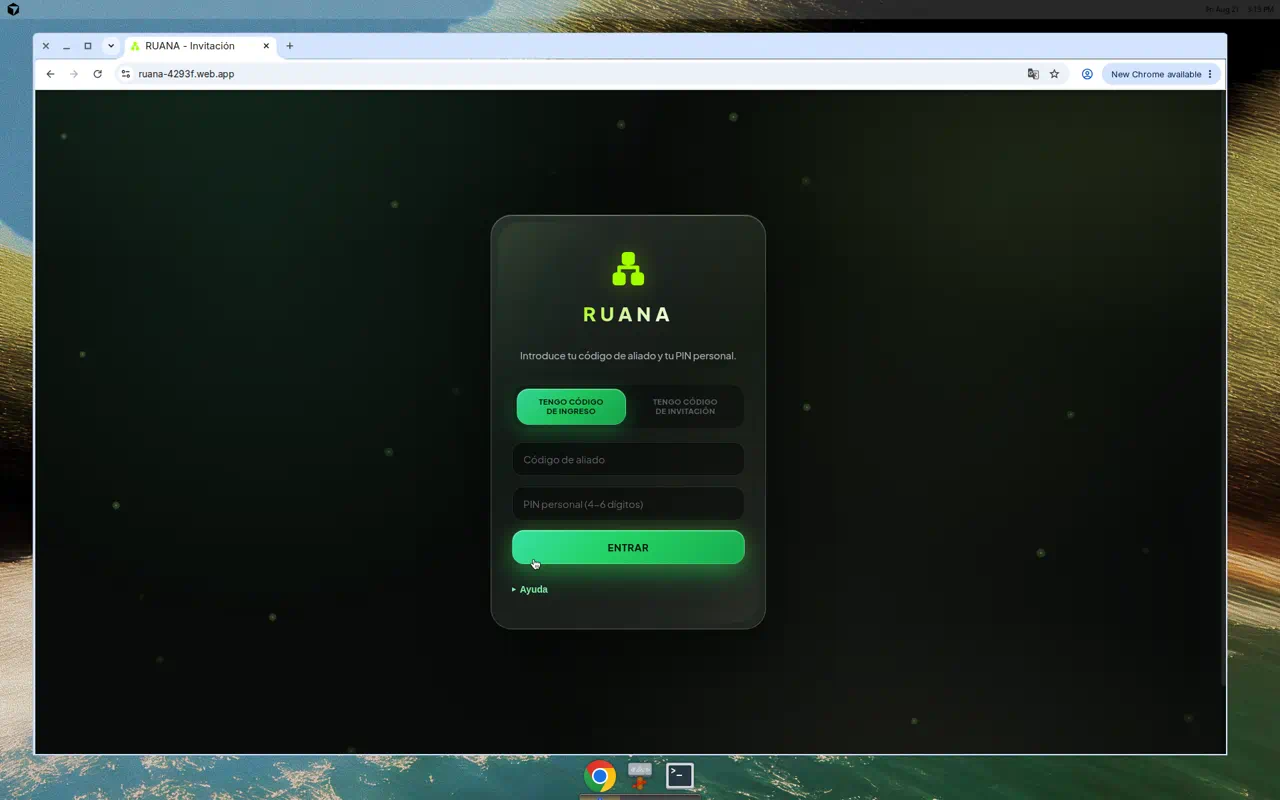
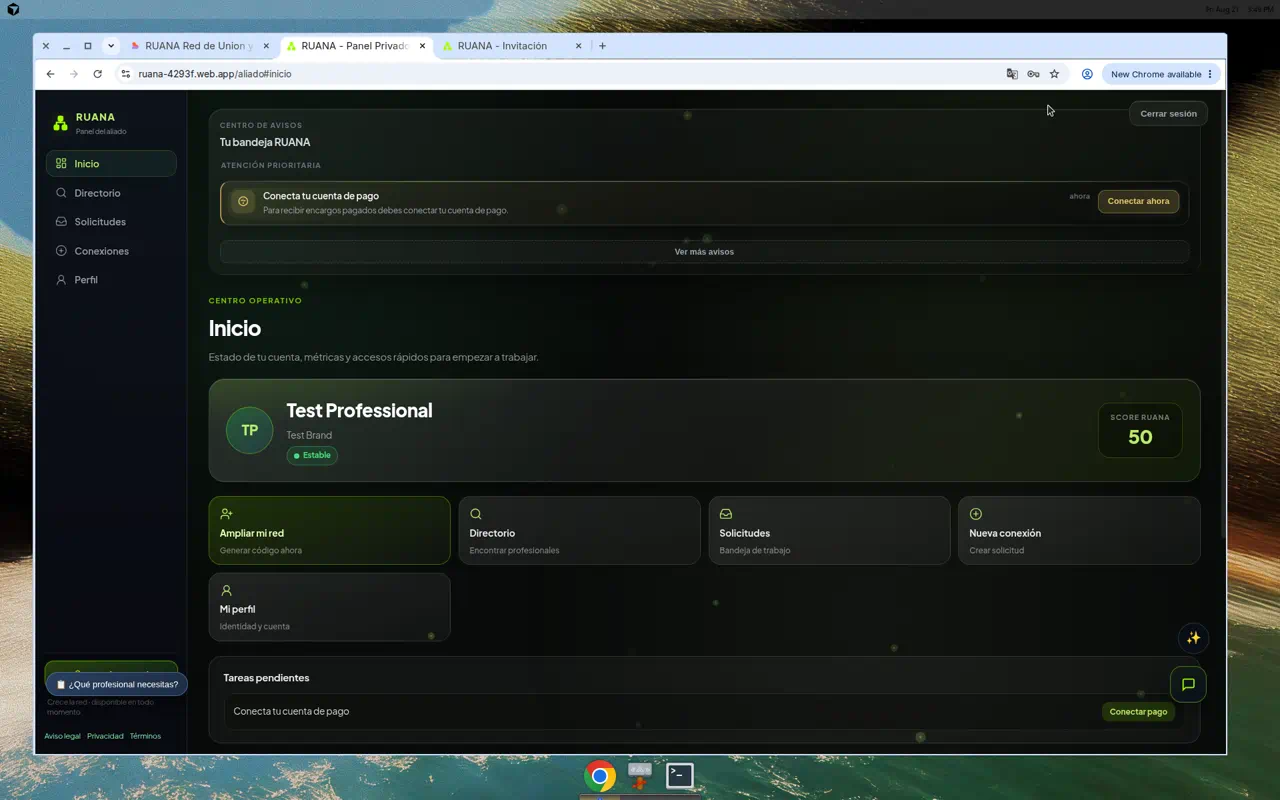
Añade capturas reales de la app en la landing
Integra tres screenshots del panel del aliado (inicio, directorio y perfil)
como apoyo visual en hero, sección de red y bloque de confianza.

diff --git a/src/pages/Landing.tsx b/src/pages/Landing.tsx
@@ -117,8 +117,8 @@ export default function Landing() {
             </div>
             <AppScreenshot
               src="/landing/01-dashboard-aliado.png"
-              alt="Acceso real a RUANA"
-              className="lg:max-w-sm lg:ml-auto opacity-95"
+              alt="Panel del aliado en RUANA"
+              className="lg:max-w-md lg:ml-auto opacity-95"
             />
           </div>
         </div>
@@ -186,14 +186,21 @@ export default function Landing() {
 
       {/* 3. La red */}
       <Section className="py-16 md:py-24" alt>
-        <div className="max-w-3xl mx-auto px-5 md:px-8">
-          <p className="text-lg md:text-[21px] text-white/75 leading-relaxed">
-            En tu zona hay profesionales de otros oficios que ya forman parte de la red. Cuando
-            surge un trabajo, se lo pasan a quien conocen y en quien confían.
-          </p>
-          <p className="mt-5 text-lg md:text-[21px] text-white/75 leading-relaxed">
-            No es un listado infinito. Es gente de tu calle, con la que puedes hablar y trabajar.
-          </p>
+        <div className="max-w-6xl mx-auto px-5 md:px-8 grid lg:grid-cols-2 gap-12 lg:gap-16 items-center">
+          <div className="max-w-lg order-2 lg:order-1">
+            <p className="text-lg md:text-[21px] text-white/75 leading-relaxed">
+              En tu zona hay profesionales de otros oficios que ya forman parte de la red. Cuando
+              surge un trabajo, se lo pasan a quien conocen y en quien confían.
+            </p>
+            <p className="mt-5 text-lg md:text-[21px] text-white/75 leading-relaxed">
+              No es un listado infinito. Es gente de tu calle, con la que puedes hablar y trabajar.
+            </p>
+          </div>
+          <AppScreenshot
+            src="/landing/07-directorio-red.png"
+            alt="Directorio de profesionales de la red en RUANA"
+            className="order-1 lg:order-2 opacity-95"
+          />
         </div>
       </Section>
 
@@ -236,21 +243,28 @@ export default function Landing() {
 
       {/* 5. Exclusividad / confianza */}
       <Section className="py-16 md:py-28" alt id="confianza">
-        <div className="max-w-3xl mx-auto px-5 md:px-8">
-          <div className="space-y-5 text-lg md:text-[21px] text-white/75 leading-relaxed">
-            <p>
-              En tu zona no queremos juntar a cientos de profesionales haciendo lo mismo.
-            </p>
-            <p>
-              Queremos construir una red donde los profesionales puedan conocerse y confiar unos
-              en otros.
+        <div className="max-w-6xl mx-auto px-5 md:px-8 grid lg:grid-cols-2 gap-12 lg:gap-20 items-center">
+          <div className="max-w-lg">
+            <div className="space-y-5 text-lg md:text-[21px] text-white/75 leading-relaxed">
+              <p>
+                En tu zona no queremos juntar a cientos de profesionales haciendo lo mismo.
+              </p>
+              <p>
+                Queremos construir una red donde los profesionales puedan conocerse y confiar unos
+                en otros.
+              </p>
+            </div>
+            <p className="mt-12 text-2xl md:text-[32px] font-semibold leading-[1.2] tracking-tight">
+              Menos desconocidos.
+              <br />
+              <span style={{ color: GREEN }}>Más profesionales de confianza.</span>
             </p>
           </div>
-          <p className="mt-12 text-2xl md:text-[32px] font-semibold leading-[1.2] tracking-tight">
-            Menos desconocidos.
-            <br />
-            <span style={{ color: GREEN }}>Más profesionales de confianza.</span>
-          </p>
+          <AppScreenshot
+            src="/landing/08-perfil-aliado.png"
+            alt="Perfil de un profesional en RUANA"
+            className="lg:max-w-md opacity-95"
+          />
         </div>
       </Section>
 
